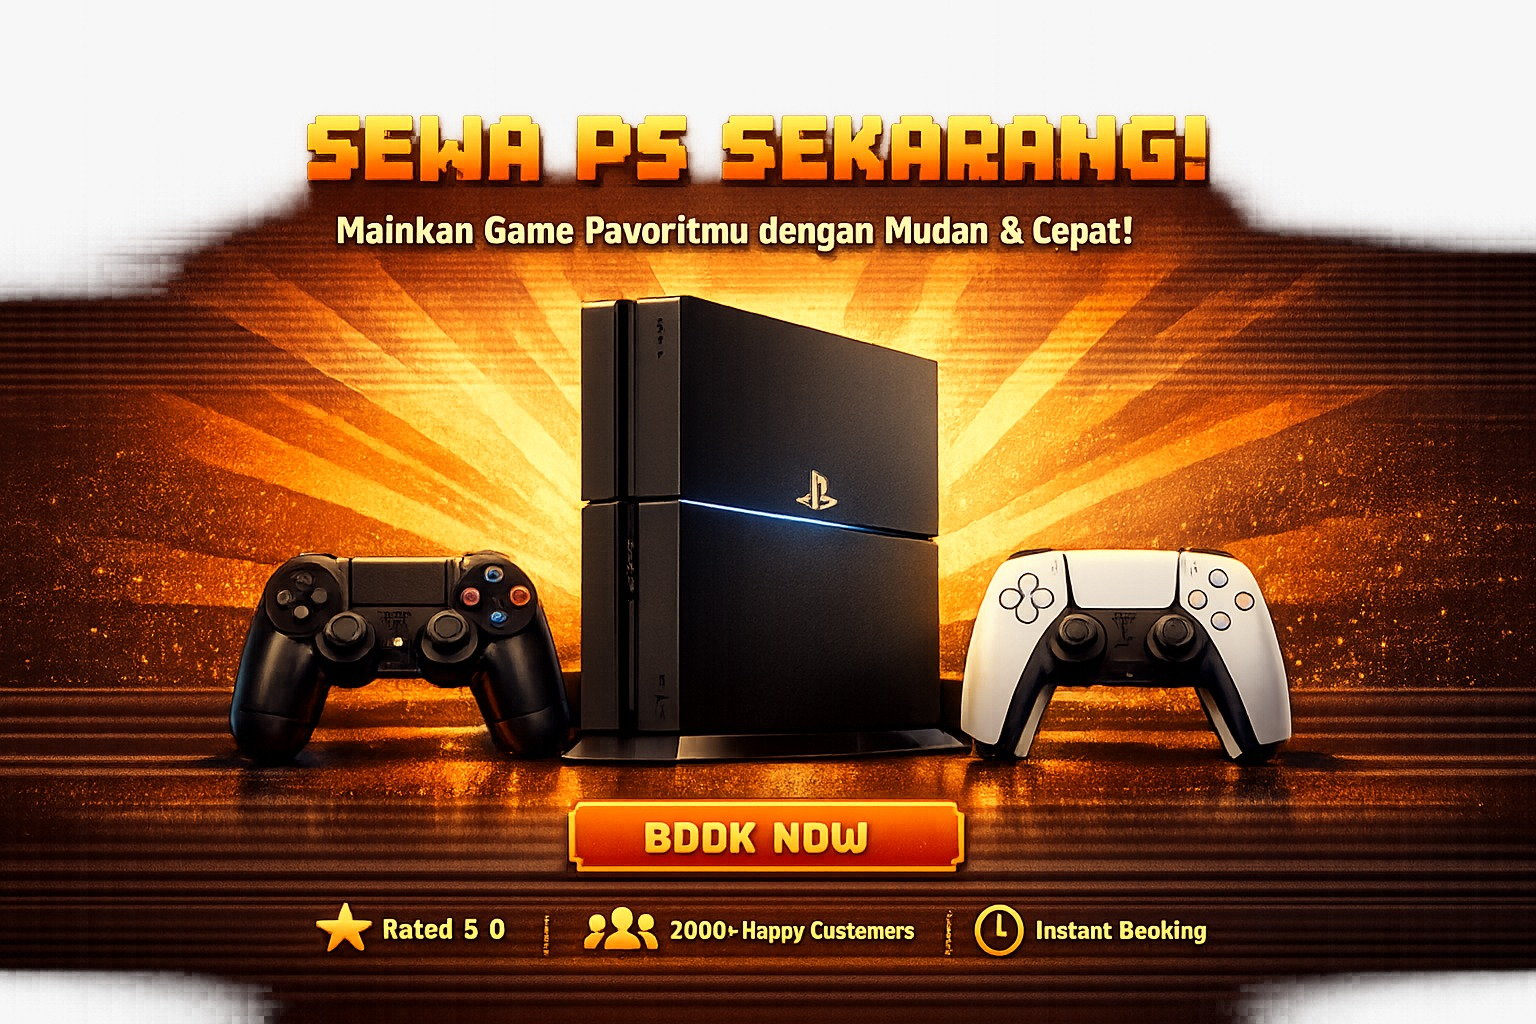
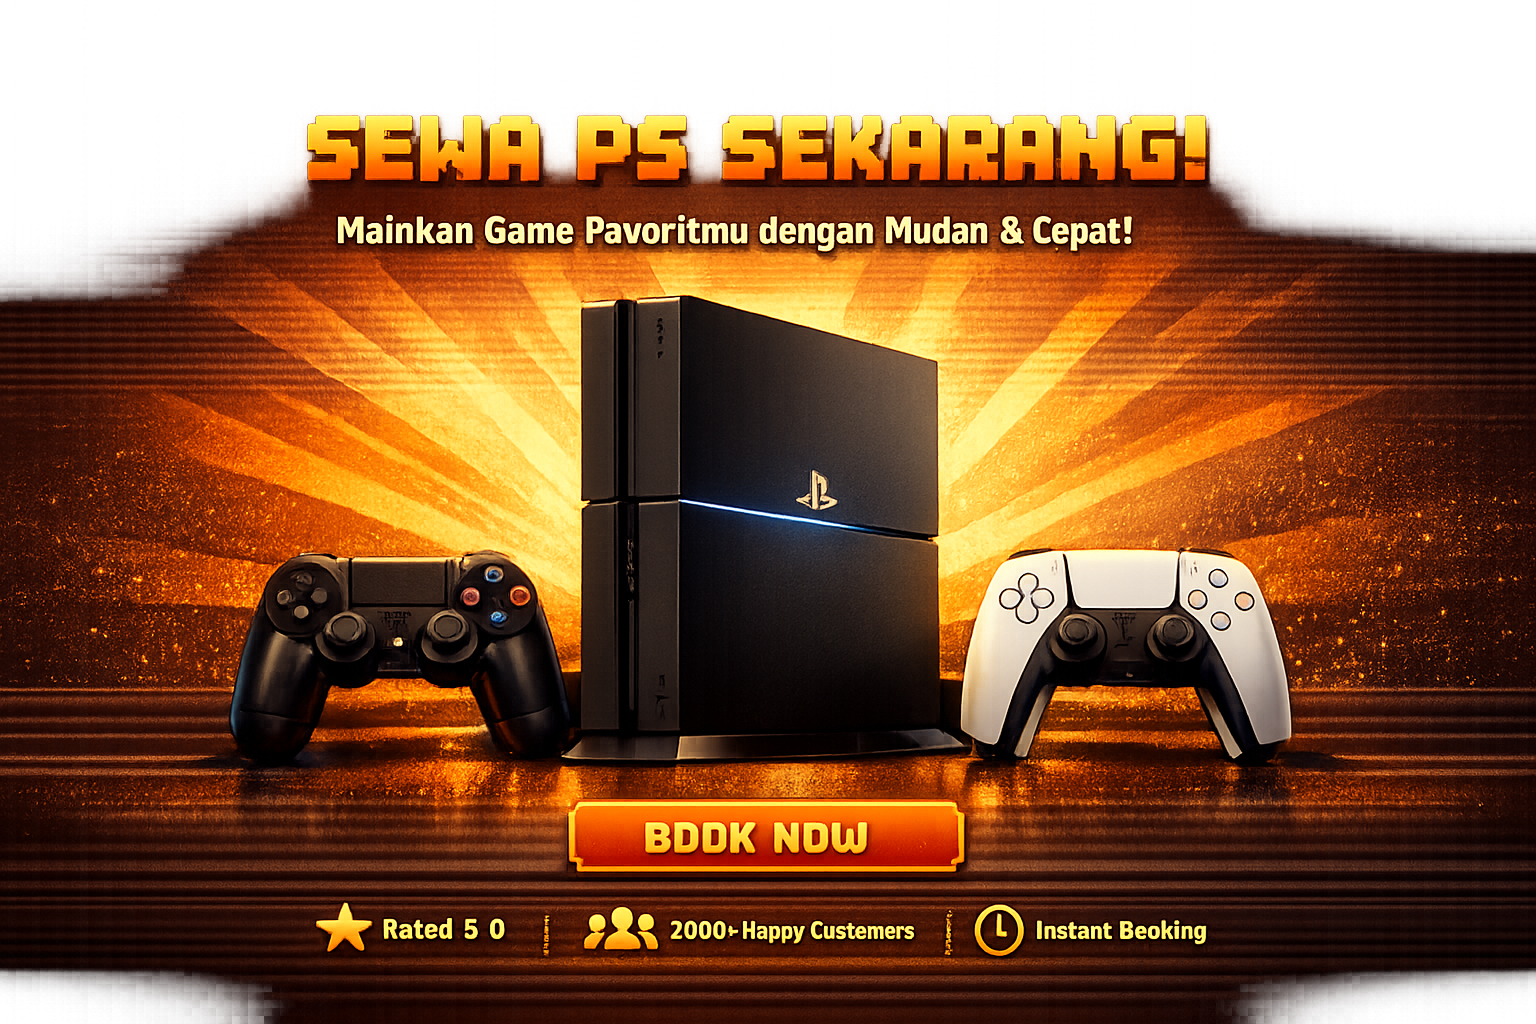
menambahkan fitur animasi gambar di section hero

diff --git a/ProRentPS/src/components/LandingPage.jsx b/ProRentPS/src/components/LandingPage.jsx
@@ -43,7 +43,33 @@ function GlobalStyle() {
       .reveal.show .stagger > *:nth-child(2){transition-delay:.25s}
       .reveal.show .stagger > *:nth-child(3){transition-delay:.4s}
       .reveal.show .stagger > *:nth-child(4){transition-delay:.55s}
-    `}</style>
+
+      /* === HERO IMAGE ANIMATION === */
+  @keyframes floatPS {
+    0% { transform: translateY(0) scale(1.08); }
+    50% { transform: translateY(-18px) scale(1.1); }
+    100% { transform: translateY(0) scale(1.08); }
+  }
+
+  @keyframes glowPulse {
+    0% { filter: drop-shadow(0 20px 40px rgba(0,0,0,.5)); }
+    50% { filter: drop-shadow(0 35px 55px rgba(229,192,123,.6)); }
+    100% { filter: drop-shadow(0 20px 40px rgba(0,0,0,.5)); }
+  }
+
+  .hero-ps {
+    animation:
+      floatPS 6s ease-in-out infinite,
+      glowPulse 4.5s ease-in-out infinite;
+    transition: transform .4s ease;
+    will-change: transform;
+  }
+
+  .hero-ps:hover {
+    transform: scale(1.14) rotate(-1deg);
+  }
+
+}    `}</style>
   );
 }
 
@@ -154,7 +180,36 @@ function HeroSection({ colors }) {
           </div>
         </div>
         <div style={{ textAlign: "center" }}>
-          <img src={heroPS} alt="PlayStation" style={{ width: "100%", maxWidth: "420px", filter: "drop-shadow(0 25px 40px rgba(0,0,0,.5))" }} />
+          <div
+  style={{
+    position: "relative",
+    display: "flex",
+    justifyContent: "center",
+  }}
+>
+  <img
+    src={heroPS}
+    alt="PlayStation"
+    className="hero-ps"
+    style={{
+      width: "120%",
+      maxWidth: "520px",
+      zIndex: 2,
+    }}
+  />
+
+  {/* backdrop glow */}
+  <div
+    style={{
+      position: "absolute",
+      inset: "20% 10%",
+      background: "radial-gradient(circle, rgba(229,192,123,.35), transparent 70%)",
+      filter: "blur(40px)",
+      zIndex: 1,
+    }}
+  />
+</div>
+
         </div>
       </div>
     </section>
